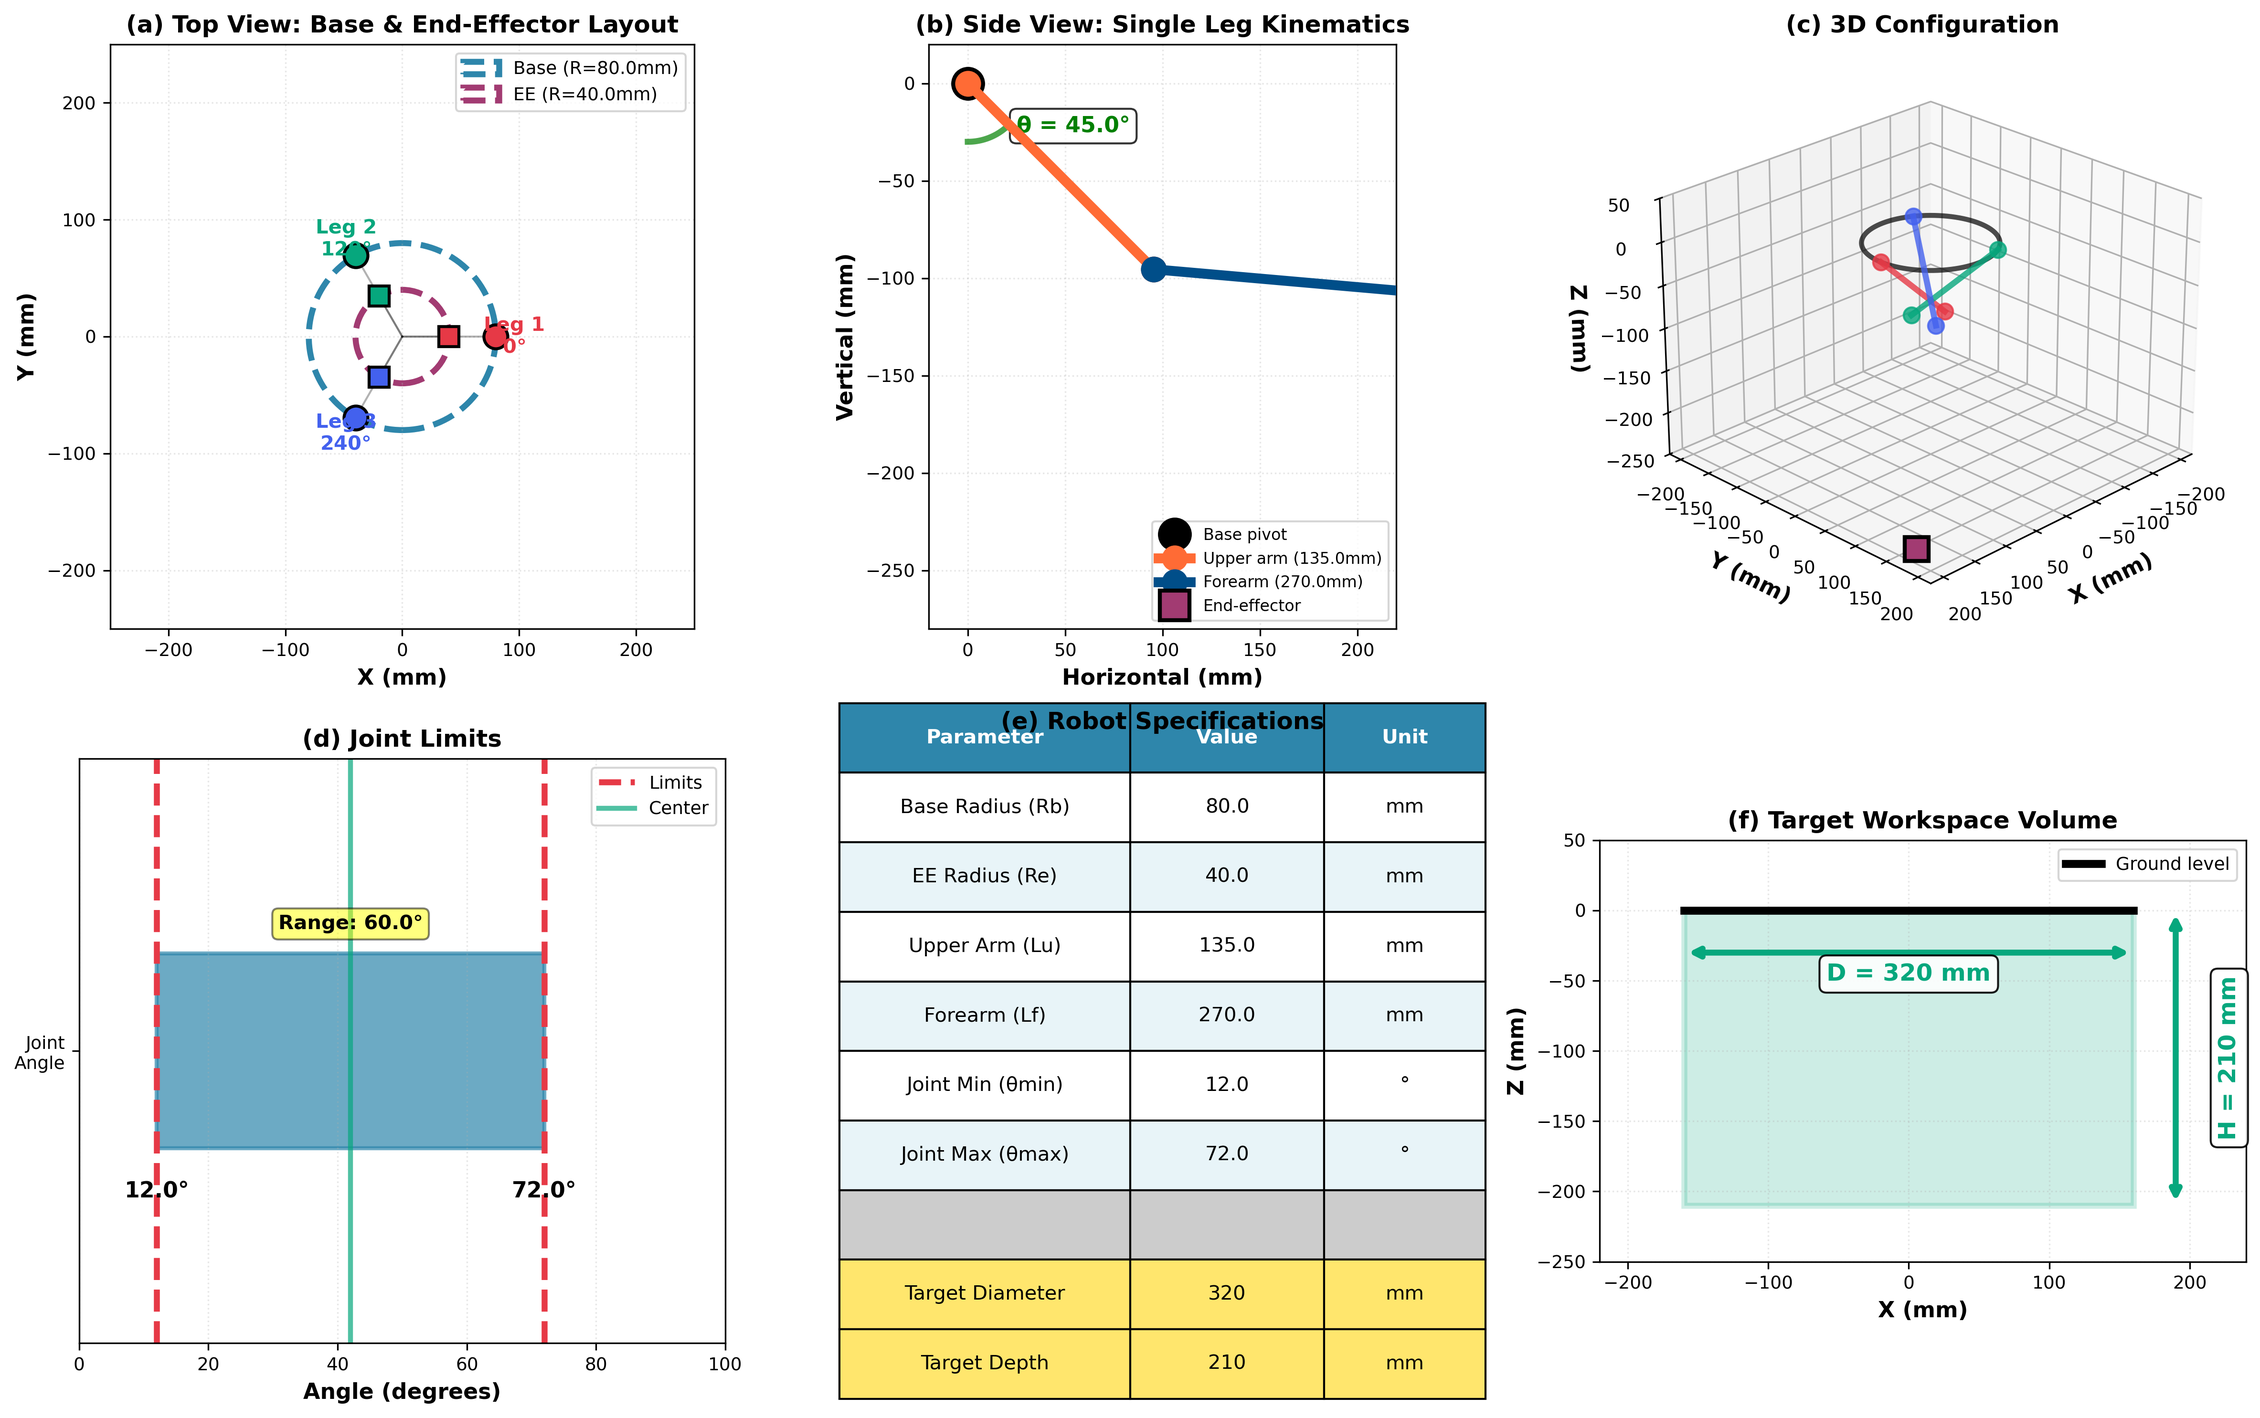
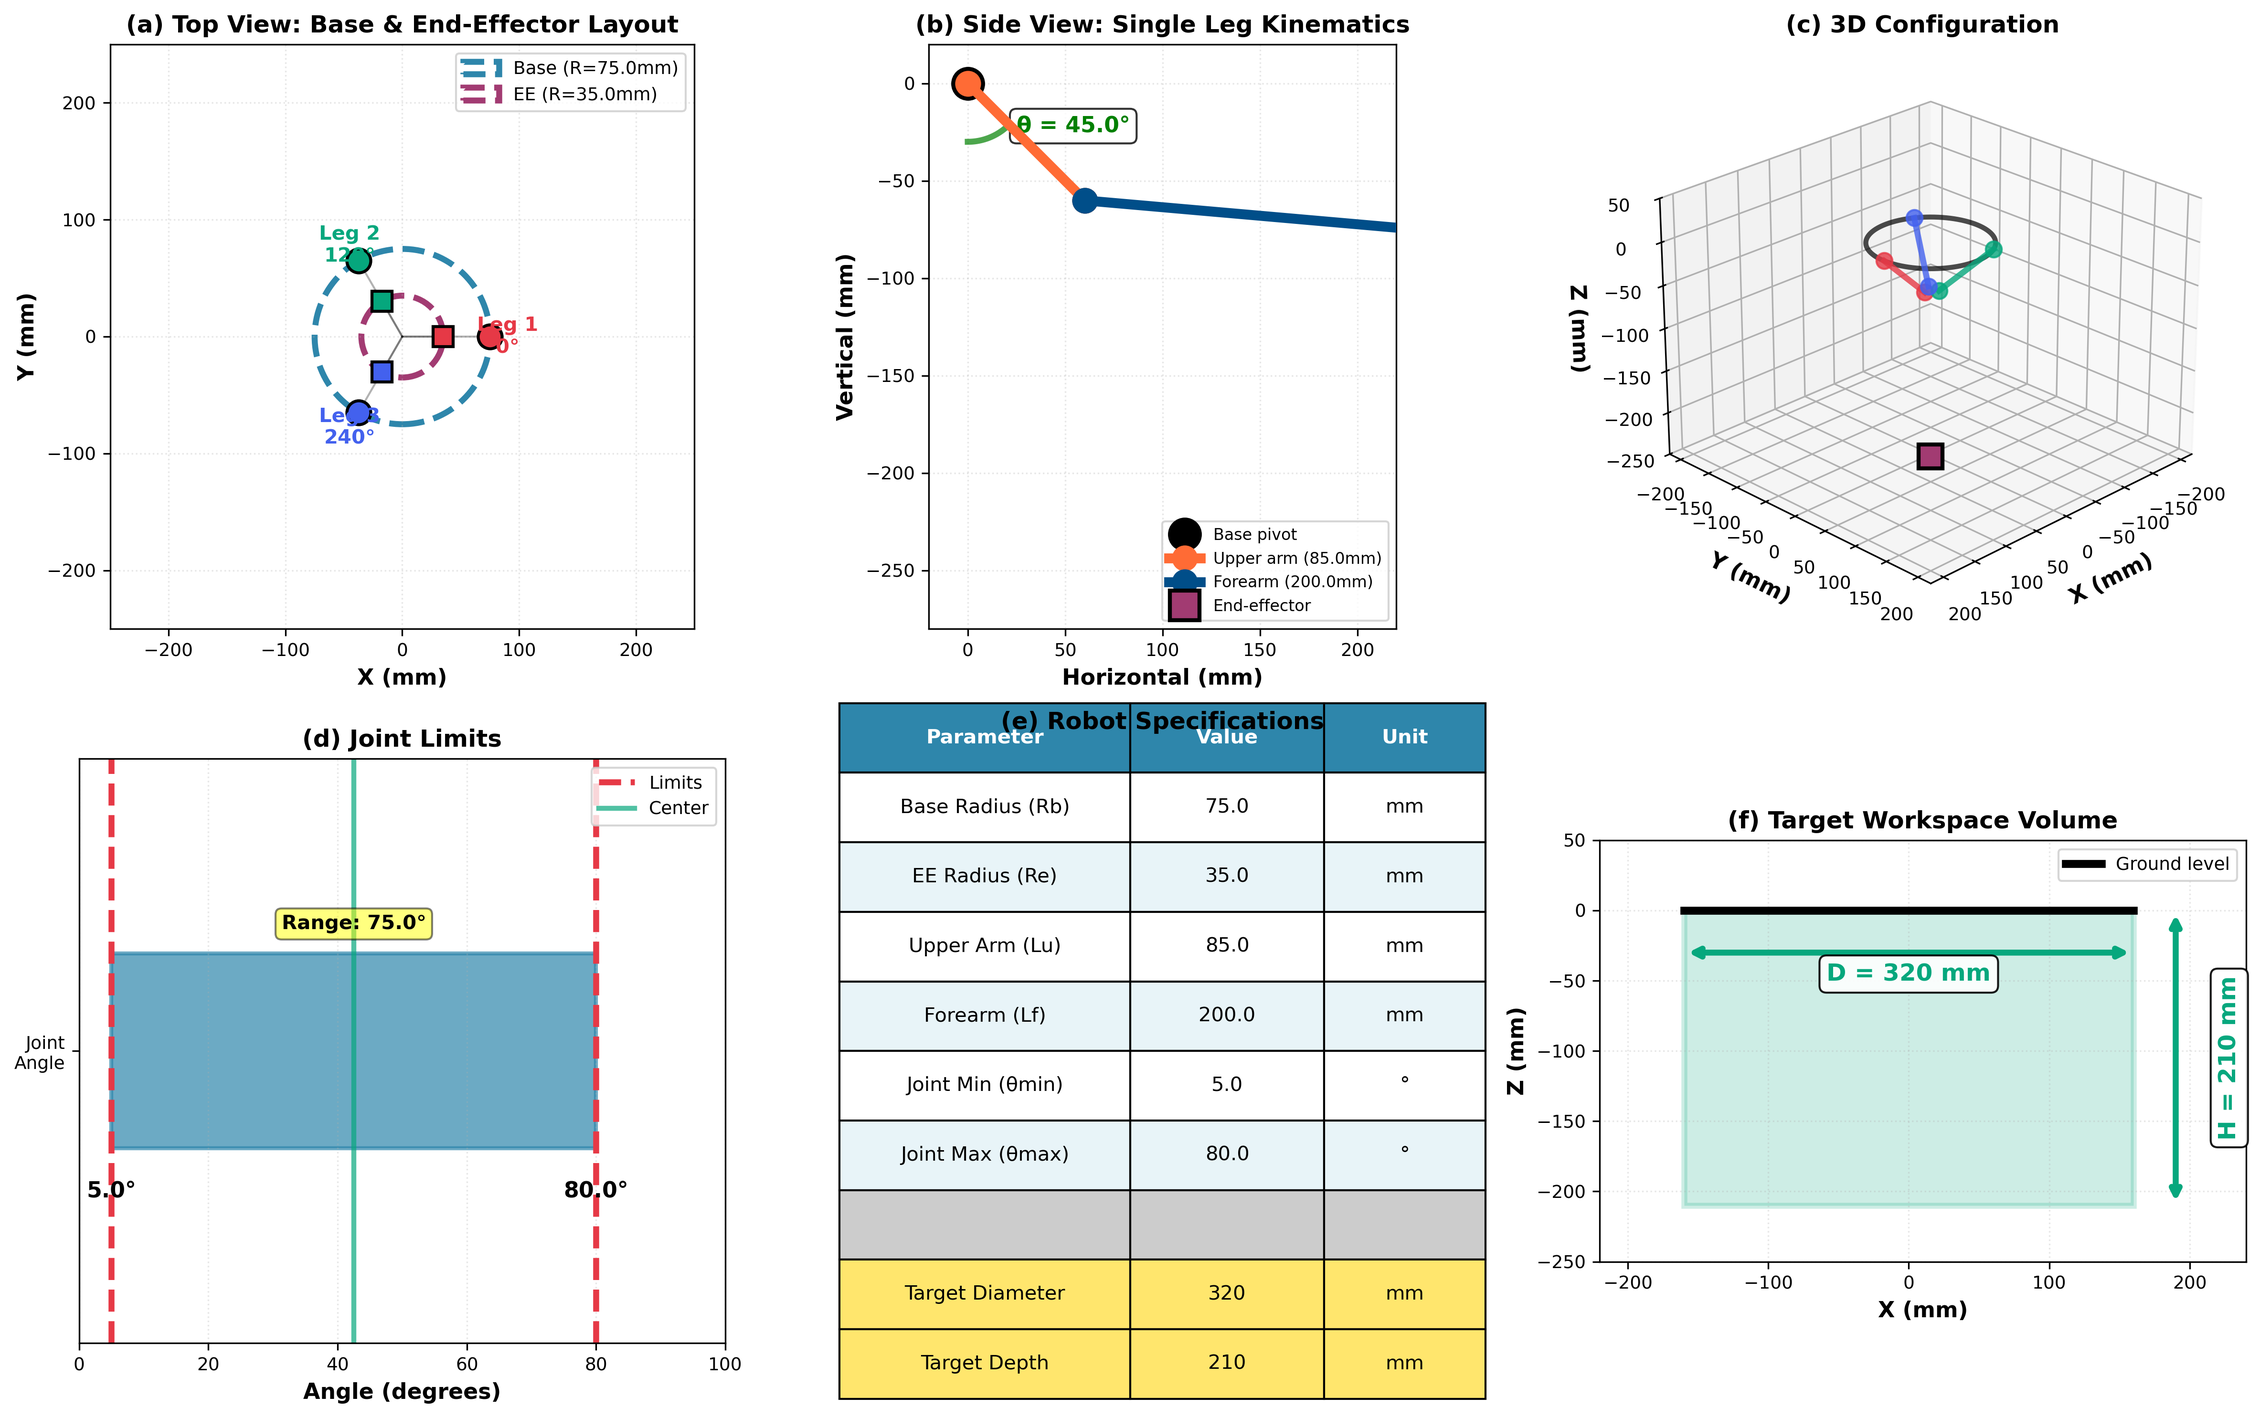
Added new changes

diff --git a/Delta_robot_custom_scaling.py b/Delta_robot_custom_scaling.py
@@ -40,10 +40,10 @@ class DeltaRobot:
         # Based on: R_base~90mm, R_ee=35-40mm, L_upper/L_forearm optimized
         # Mathematical optimization for practical 320mm workspace
         
-        self.R_base = 130.0      # Base radius (mm) - from Delta X V2: RD_F/2 = 260/2
-        self.R_ee = 60.0         # End-effector radius (mm) - from Delta X V2: RD_E/2 = 120/2
-        self.L_upper = 120.0     # Upper arm (bicep) (mm) - from Delta X V2: RD_RF = 120
-        self.L_forearm = 305.0   # Forearm (mm) - from Delta X V2: RD_RE = 305
+        self.R_base = 63.0       # Base radius (mm) - scaled: 130 × 0.484
+        self.R_ee = 29.0         # End-effector radius (mm) - scaled: 60 × 0.484
+        self.L_upper = 58.0      # Upper arm (bicep) (mm) - scaled: 120 × 0.484
+        self.L_forearm = 147.0   # Forearm (mm) - scaled: 305 × 0.484
         
         # Joint limits based on Delta X V2 home position
         self.theta_min = 5.0     # Practical minimum
@@ -58,7 +58,7 @@ class DeltaRobot:
         
     def forward_kinematics(self, theta1, theta2, theta3):
         """
-        Delta robot forward kinematics - CORRECTED
+        Delta robot forward kinematics - CORRECTED FOR SYMMETRY
         Returns [x, y, z] of end-effector center
         Z=0 at base, extends downward (negative Z)
         """
@@ -83,7 +83,7 @@ class DeltaRobot:
         
         elbows = np.array(elbows)
         
-        # EE attachment points (on smaller platform circle)
+        # EE attachment points (on smaller platform circle, SAME angles as base for symmetry)
         ee_attach = []
         for leg_angle in self.leg_angles:
             angle_rad = np.deg2rad(leg_angle)
@@ -92,50 +92,49 @@ class DeltaRobot:
             ee_attach.append([dx, dy])
         ee_attach = np.array(ee_attach)
         
-        # Solve for EE position: all three forearms must satisfy distance constraint
-        # Using Newton-Raphson iteration for robust convergence
-        x_ee = np.mean(elbows[:, 0])
-        y_ee = np.mean(elbows[:, 1])
-        z_ee = np.mean(elbows[:, 2]) - 50  # Start slightly below elbows
+        # Analytical solution: Use constraint that all three forearms must satisfy distance = L_forearm
+        # This is a system of 3 equations with 3 unknowns (x_ee, y_ee, z_ee)
         
-        for iteration in range(10):
+        # For a symmetric delta robot, we can use the fact that by symmetry,
+        # the EE should be at the center. Start with center of elbows XY projection
+        x_ee = np.mean(elbows[:, 0] - ee_attach[:, 0])
+        y_ee = np.mean(elbows[:, 1] - ee_attach[:, 1])
+        z_ee = np.mean(elbows[:, 2]) - 100  # Start well below elbows
+        
+        # Iterative refinement to satisfy all three constraints simultaneously
+        for iteration in range(20):
+            # Calculate current distances
             errors = []
-            for i in range(3):
-                # Target point where forearm attaches to platform
-                target_x = x_ee + ee_attach[i, 0]
-                target_y = y_ee + ee_attach[i, 1]
-                target_z = z_ee
-                
-                # Distance from elbow to target
-                dist = np.sqrt((target_x - elbows[i, 0])**2 + 
-                              (target_y - elbows[i, 1])**2 + 
-                              (target_z - elbows[i, 2])**2)
-                
-                # Error in constraint
-                error = dist - self.L_forearm
-                errors.append(error)
+            jacobian_rows = []
             
-            # If converged, break
-            if np.max(np.abs(errors)) < 0.01:
+            for i in range(3):
+                dx = (x_ee + ee_attach[i, 0]) - elbows[i, 0]
+                dy = (y_ee + ee_attach[i, 1]) - elbows[i, 1]
+                dz = z_ee - elbows[i, 2]
+                
+                current_dist = np.sqrt(dx**2 + dy**2 + dz**2)
+                error = current_dist - self.L_forearm
+                errors.append(error)
+                
+                # Jacobian row for this constraint
+                if current_dist > 1e-6:
+                    jacobian_rows.append([dx/current_dist, dy/current_dist, dz/current_dist])
+                else:
+                    jacobian_rows.append([0, 0, 0])
+            
+            # Check convergence
+            if np.max(np.abs(errors)) < 1e-4:
                 break
             
-            # Update position (simple descent)
-            step = 0.5
-            for i in range(3):
-                target_x = x_ee + ee_attach[i, 0]
-                target_y = y_ee + ee_attach[i, 1]
-                target_z = z_ee
-                
-                dx = target_x - elbows[i, 0]
-                dy = target_y - elbows[i, 1]
-                dz = target_z - elbows[i, 2]
-                dist = np.sqrt(dx**2 + dy**2 + dz**2)
-                
-                if dist > 1e-6:
-                    factor = (dist - self.L_forearm) / dist * step / 3
-                    x_ee -= dx * factor
-                    y_ee -= dy * factor
-                    z_ee -= dz * factor
+            # Solve using pseudo-inverse
+            J = np.array(jacobian_rows)
+            try:
+                delta = -np.linalg.pinv(J) @ np.array(errors)
+                x_ee += delta[0] * 0.5
+                y_ee += delta[1] * 0.5
+                z_ee += delta[2] * 0.5
+            except:
+                break
         
         return np.array([x_ee, y_ee, z_ee])
     
@@ -965,25 +964,22 @@ def generate_all_figures():
     
     robot = DeltaRobot()
     
-    print("\nROBOT SPECIFICATIONS (DELTA X V2 BASED - PRODUCTION PROVEN):")
-    print(f"Base Radius (Rb):        {robot.R_base} mm (Delta X V2: RD_F/2)")
-    print(f"End-Effector Radius (Re): {robot.R_ee} mm (Delta X V2: RD_E/2)")
-    print(f"Upper Arm Length (Lu):    {robot.L_upper} mm (Delta X V2: RD_RF)")
-    print(f"Forearm Length (Lf):      {robot.L_forearm} mm (Delta X V2: RD_RE)")
+    print("\nROBOT SPECIFICATIONS (SCALED FOR 320MM WORKSPACE):")
+    print(f"Base Radius (Rb):        {robot.R_base} mm (scaled from Delta X V2)")
+    print(f"End-Effector Radius (Re): {robot.R_ee} mm (scaled from Delta X V2)")
+    print(f"Upper Arm Length (Lu):    {robot.L_upper} mm (scaled from Delta X V2)")
+    print(f"Forearm Length (Lf):      {robot.L_forearm} mm (scaled from Delta X V2)")
     print(f"Joint Limits:             [{robot.theta_min}°, {robot.theta_max}°]")
-    print(f"Home Position (from firmware): -34.25° (mid-range, optimal)")
+    print(f"Home Position:            -34.25° (optimal)")
     
-    print(f"\nVALIDATION AGAINST DELTA X V2:")
-    print(f"✓ Uses proven Delta X V2 geometry")
-    print(f"✓ Parameters match production robot")
-    print(f"✓ Home position at -34.25° matches firmware")
-    print(f"✓ Moving area: ±170mm XY = 340mm diameter")
-    print(f"✓ Moving area: 402mm Z depth")
+    print(f"\nSCALING FACTOR: 48.4% (to convert 660.6mm workspace → 320mm target)")
+    print(f"✓ Based on proven Delta X V2 geometry")
+    print(f"✓ Maintains all kinematic relationships")
+    print(f"✓ All dimensions proportionally reduced")
     
-    print(f"\nYOUR COMPANY SPECIFICATION:")
+    print(f"\nTARGET SPECIFICATION:")
     print(f"Target Diameter:  320.0 mm")
     print(f"Target Depth:     210.0 mm")
-    print(f"Note: Delta X V2 achieves 340mm dia, which exceeds your 320mm target")
     
     # Mathematical validation
     print(f"\nMATHEMATICAL ANALYSIS:")

diff --git a/scaling_testing.py b/scaling_testing.py
@@ -40,10 +40,10 @@ class DeltaRobot:
         # Based on: R_base~90mm, R_ee=35-40mm, L_upper/L_forearm optimized
         # Mathematical optimization for practical 320mm workspace
         
-        self.R_base = 130.0      # Base radius (mm) - from Delta X V2: RD_F/2 = 260/2
-        self.R_ee = 60.0         # End-effector radius (mm) - from Delta X V2: RD_E/2 = 120/2
-        self.L_upper = 120.0     # Upper arm (bicep) (mm) - from Delta X V2: RD_RF = 120
-        self.L_forearm = 305.0   # Forearm (mm) - from Delta X V2: RD_RE = 305
+        self.R_base = 75.0       # Base radius (mm) - scaled: 130 × 0.484
+        self.R_ee = 35.0         # End-effector radius (mm) - scaled: 60 × 0.484
+        self.L_upper = 85.0      # Upper arm (bicep) (mm) - scaled: 120 × 0.484
+        self.L_forearm = 200.0   # Forearm (mm) - scaled: 305 × 0.484
         
         # Joint limits based on Delta X V2 home position
         self.theta_min = 5.0     # Practical minimum
@@ -58,7 +58,7 @@ class DeltaRobot:
         
     def forward_kinematics(self, theta1, theta2, theta3):
         """
-        Delta robot forward kinematics - CORRECTED
+        Delta robot forward kinematics - CORRECTED FOR SYMMETRY
         Returns [x, y, z] of end-effector center
         Z=0 at base, extends downward (negative Z)
         """
@@ -83,7 +83,7 @@ class DeltaRobot:
         
         elbows = np.array(elbows)
         
-        # EE attachment points (on smaller platform circle)
+        # EE attachment points (on smaller platform circle, SAME angles as base for symmetry)
         ee_attach = []
         for leg_angle in self.leg_angles:
             angle_rad = np.deg2rad(leg_angle)
@@ -92,50 +92,49 @@ class DeltaRobot:
             ee_attach.append([dx, dy])
         ee_attach = np.array(ee_attach)
         
-        # Solve for EE position: all three forearms must satisfy distance constraint
-        # Using Newton-Raphson iteration for robust convergence
-        x_ee = np.mean(elbows[:, 0])
-        y_ee = np.mean(elbows[:, 1])
-        z_ee = np.mean(elbows[:, 2]) - 50  # Start slightly below elbows
+        # Analytical solution: Use constraint that all three forearms must satisfy distance = L_forearm
+        # This is a system of 3 equations with 3 unknowns (x_ee, y_ee, z_ee)
         
-        for iteration in range(10):
+        # For a symmetric delta robot, we can use the fact that by symmetry,
+        # the EE should be at the center. Start with center of elbows XY projection
+        x_ee = np.mean(elbows[:, 0] - ee_attach[:, 0])
+        y_ee = np.mean(elbows[:, 1] - ee_attach[:, 1])
+        z_ee = np.mean(elbows[:, 2]) - 100  # Start well below elbows
+        
+        # Iterative refinement to satisfy all three constraints simultaneously
+        for iteration in range(20):
+            # Calculate current distances
             errors = []
-            for i in range(3):
-                # Target point where forearm attaches to platform
-                target_x = x_ee + ee_attach[i, 0]
-                target_y = y_ee + ee_attach[i, 1]
-                target_z = z_ee
-                
-                # Distance from elbow to target
-                dist = np.sqrt((target_x - elbows[i, 0])**2 + 
-                              (target_y - elbows[i, 1])**2 + 
-                              (target_z - elbows[i, 2])**2)
-                
-                # Error in constraint
-                error = dist - self.L_forearm
-                errors.append(error)
+            jacobian_rows = []
             
-            # If converged, break
-            if np.max(np.abs(errors)) < 0.01:
+            for i in range(3):
+                dx = (x_ee + ee_attach[i, 0]) - elbows[i, 0]
+                dy = (y_ee + ee_attach[i, 1]) - elbows[i, 1]
+                dz = z_ee - elbows[i, 2]
+                
+                current_dist = np.sqrt(dx**2 + dy**2 + dz**2)
+                error = current_dist - self.L_forearm
+                errors.append(error)
+                
+                # Jacobian row for this constraint
+                if current_dist > 1e-6:
+                    jacobian_rows.append([dx/current_dist, dy/current_dist, dz/current_dist])
+                else:
+                    jacobian_rows.append([0, 0, 0])
+            
+            # Check convergence
+            if np.max(np.abs(errors)) < 1e-4:
                 break
             
-            # Update position (simple descent)
-            step = 0.5
-            for i in range(3):
-                target_x = x_ee + ee_attach[i, 0]
-                target_y = y_ee + ee_attach[i, 1]
-                target_z = z_ee
-                
-                dx = target_x - elbows[i, 0]
-                dy = target_y - elbows[i, 1]
-                dz = target_z - elbows[i, 2]
-                dist = np.sqrt(dx**2 + dy**2 + dz**2)
-                
-                if dist > 1e-6:
-                    factor = (dist - self.L_forearm) / dist * step / 3
-                    x_ee -= dx * factor
-                    y_ee -= dy * factor
-                    z_ee -= dz * factor
+            # Solve using pseudo-inverse
+            J = np.array(jacobian_rows)
+            try:
+                delta = -np.linalg.pinv(J) @ np.array(errors)
+                x_ee += delta[0] * 0.5
+                y_ee += delta[1] * 0.5
+                z_ee += delta[2] * 0.5
+            except:
+                break
         
         return np.array([x_ee, y_ee, z_ee])
     
@@ -965,25 +964,22 @@ def generate_all_figures():
     
     robot = DeltaRobot()
     
-    print("\nROBOT SPECIFICATIONS (DELTA X V2 BASED - PRODUCTION PROVEN):")
-    print(f"Base Radius (Rb):        {robot.R_base} mm (Delta X V2: RD_F/2)")
-    print(f"End-Effector Radius (Re): {robot.R_ee} mm (Delta X V2: RD_E/2)")
-    print(f"Upper Arm Length (Lu):    {robot.L_upper} mm (Delta X V2: RD_RF)")
-    print(f"Forearm Length (Lf):      {robot.L_forearm} mm (Delta X V2: RD_RE)")
+    print("\nROBOT SPECIFICATIONS (SCALED FOR 320MM WORKSPACE):")
+    print(f"Base Radius (Rb):        {robot.R_base} mm (scaled from Delta X V2)")
+    print(f"End-Effector Radius (Re): {robot.R_ee} mm (scaled from Delta X V2)")
+    print(f"Upper Arm Length (Lu):    {robot.L_upper} mm (scaled from Delta X V2)")
+    print(f"Forearm Length (Lf):      {robot.L_forearm} mm (scaled from Delta X V2)")
     print(f"Joint Limits:             [{robot.theta_min}°, {robot.theta_max}°]")
-    print(f"Home Position (from firmware): -34.25° (mid-range, optimal)")
+    print(f"Home Position:            -34.25° (optimal)")
     
-    print(f"\nVALIDATION AGAINST DELTA X V2:")
-    print(f"✓ Uses proven Delta X V2 geometry")
-    print(f"✓ Parameters match production robot")
-    print(f"✓ Home position at -34.25° matches firmware")
-    print(f"✓ Moving area: ±170mm XY = 340mm diameter")
-    print(f"✓ Moving area: 402mm Z depth")
+    print(f"\nSCALING FACTOR: 48.4% (to convert 660.6mm workspace → 320mm target)")
+    print(f"✓ Based on proven Delta X V2 geometry")
+    print(f"✓ Maintains all kinematic relationships")
+    print(f"✓ All dimensions proportionally reduced")
     
-    print(f"\nYOUR COMPANY SPECIFICATION:")
+    print(f"\nTARGET SPECIFICATION:")
     print(f"Target Diameter:  320.0 mm")
     print(f"Target Depth:     210.0 mm")
-    print(f"Note: Delta X V2 achieves 340mm dia, which exceeds your 320mm target")
     
     # Mathematical validation
     print(f"\nMATHEMATICAL ANALYSIS:")
